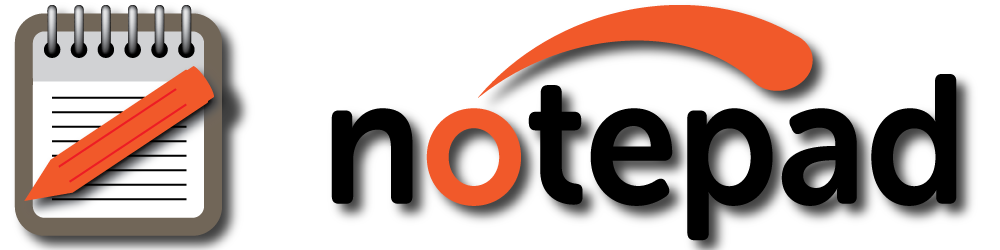
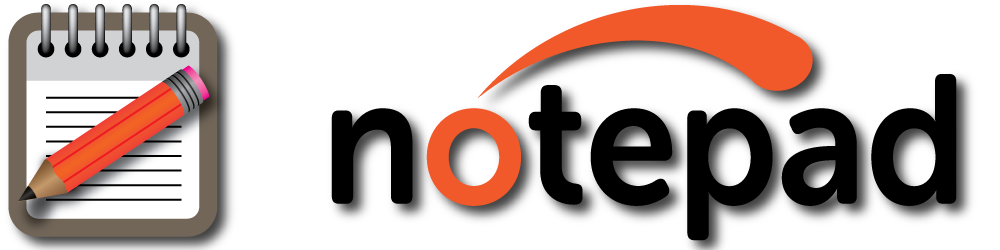
notepad kids added

Changed region(s): [[0.0, 0.0, 0.248, 0.98]]

diff --git a/index.html b/index.html
@@ -109,7 +109,7 @@
             <div class="col-sm-6">
                 <h1>About</h1>
                 <p>I'm a web developer with a passion for building commercially focused products</p><br>
-                <p>Recently I’ve been working on frontend responsive design while working within the Ruby on Rails framework. The thing that excites me the most about coding is that it one of the few areas where you can do something that is both creative and practical.</p></br>
+                <p>Recently I’ve been working on full stack responsive design while working within the Ruby on Rails framework. The thing that excites me the most about coding is that it one of the few areas where you can do something that is both creative and practical.</p></br>
                 <p>My real drive in web development comes from being able to build and work on great products where I can see the potential to be marketed to wide ranging audiences.
                 </p>
                 
@@ -151,7 +151,7 @@
     <section class="grey">
         <div class="row">
             <div class="col-sm-4">
-                <a href="http://grumpyshop.herokuapp.com"><img class="image-links" src="img/GrumpyShop.png">
+                <a href="http://grumpyshopapp.herokuapp.com"><img class="image-links" src="img/GrumpyShop.png">
                 <i class="fa fa-shopping-cart"></i>
                 <p class="descriptions">A Ruby on Rails Shopping cart using Devise authentication. Users can refine search by categories and there are also also pages only admin can access to add, delete and update products. Click to see the fully responsive website.</p></a></a>
             </div>
@@ -161,14 +161,19 @@
                 <p class="descriptions">My first attempt at writing in the PHP language, a shopping cart set up with full Paypal integration. Click for more.</p></a></a>
             </div>
             <div class="col-sm-4">
+                <a href="http://minibook.herokuapp.com"><img class="image-links" src="img/MiniBookBlack.png">
+                <i class="fa fa-book"></i>
+                <p class="descriptions">A social media clone app built with Rails. It has a news feed sorting from the newest user posts down. Making use of the Devise authentication and State Machine gems, users can create posts and add and delete friends. Click to sign up...</p></a>
+            </div>
+            <div class="col-sm-4">
                 <a href="http://notepadapp.herokuapp.com"><img class="image-links" src="img/notepad.png">
                 <i class="fa fa-pencil-square-o"></i>
                 <p class="descriptions">A notepad organiser app built with a test driven development approach using automated integration testing with Capybara and R-Spec. Making use of Rails associations, individual items can be added to lists which can be edited, marked complete and deleted</p></a></a>
             </div>
             <div class="col-sm-4">
-                <a href="http://minibook.herokuapp.com"><img class="image-links" src="img/MiniBookBlack.png">
-                <i class="fa fa-book"></i>
-                <p class="descriptions">A social media clone app built with Rails. It has a news feed sorting from the newest user posts down. Making use of the Devise authentication and State Machine gems, users can create posts and add and delete friends. Click to sign up...</p></a>
+                <a href="http://www.craigkuriger.freewebhost.co.nz/"><img class="image-links" src="img/notepadkids.png">
+                <i class="fa fa-pencil-square-o"></i>
+                <p class="descriptions">A Etch-A-Sketch app making use of the HTML-5 Canvas and JQuery. Users can created their own colours and draw away on the blank canvas.</p></a></a>
             </div>
             <div class="col-sm-4">
                 <a href="https://www.youtube.com/watch?v=V06WyGihNdo"><img class="image-links" src="img/GetRid.png">
